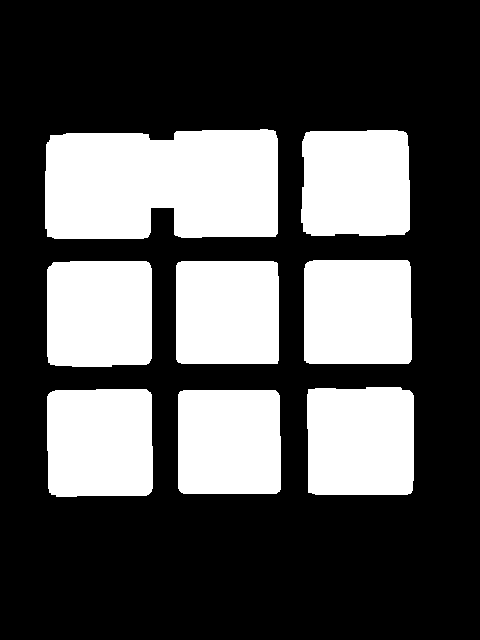
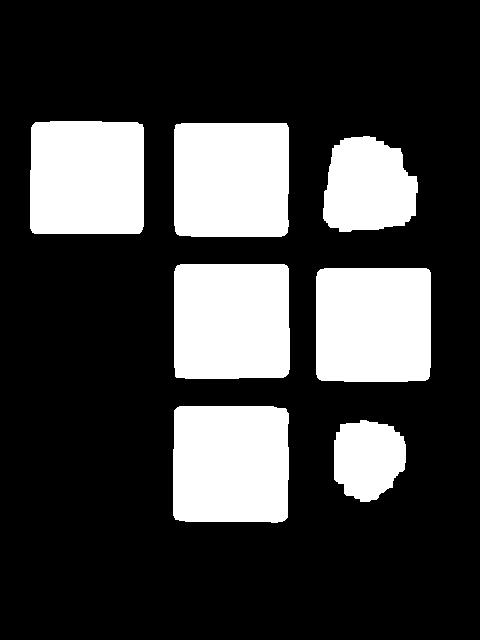
pics and ranges

Changed region(s): [[0.0938, 0.4062, 0.9062, 0.8438], [0.0625, 0.1875, 0.875, 0.375]]

diff --git a/main.py b/main.py
@@ -12,7 +12,7 @@ def checkInRange(colors, curr_pixel):
     print("not in any color range")
 
 def edgeDetection():
-    imgobj = cv2.imread('better_lighting/face1.2.jpg')
+    imgobj = cv2.imread('better_lighting/face6.3.jpg')
     gray = cv2.cvtColor(imgobj, cv2.COLOR_BGR2GRAY)
     cv2.namedWindow("image")
     blurred = cv2.GaussianBlur(gray, (3,3), 0)
@@ -88,7 +88,7 @@ def sobel(image):
 
 
 def detectColors():
-    image = cv2.imread('better_lighting/face1.2.jpg')
+    image = cv2.imread('better_lighting/face6.3.jpg')
     original = image.copy()
 
     image = remove_background(image)
@@ -114,9 +114,10 @@ def detectColors():
         # 'gray': ([76, 0, 41], [179, 255, 70]),        # Gray
         'blue': ([90, 50, 50], [130, 255, 255]),
         'yellow': ([20, 100, 100], [40, 255, 255]),   # Yellow
-        'orange': ([0, 50, 50], [30, 255, 255]),     # Orange
+        'orange': ([8, 80, 80], [30, 255, 255]),     # Orange
         'green' : ([60 - 14, 100, 100], [60 + 20, 255, 255]), # Green
-        'red' : ([159, 50, 70], [180, 255, 255]), #Red
+        'red' : ([159, 50, 50], [180, 255, 255]), #Red
+        'red' : ([0, 70, 50], [8, 255, 255]), #Red
         'white' : ([0,0,210], [255,255,255]) # White
         }
 
